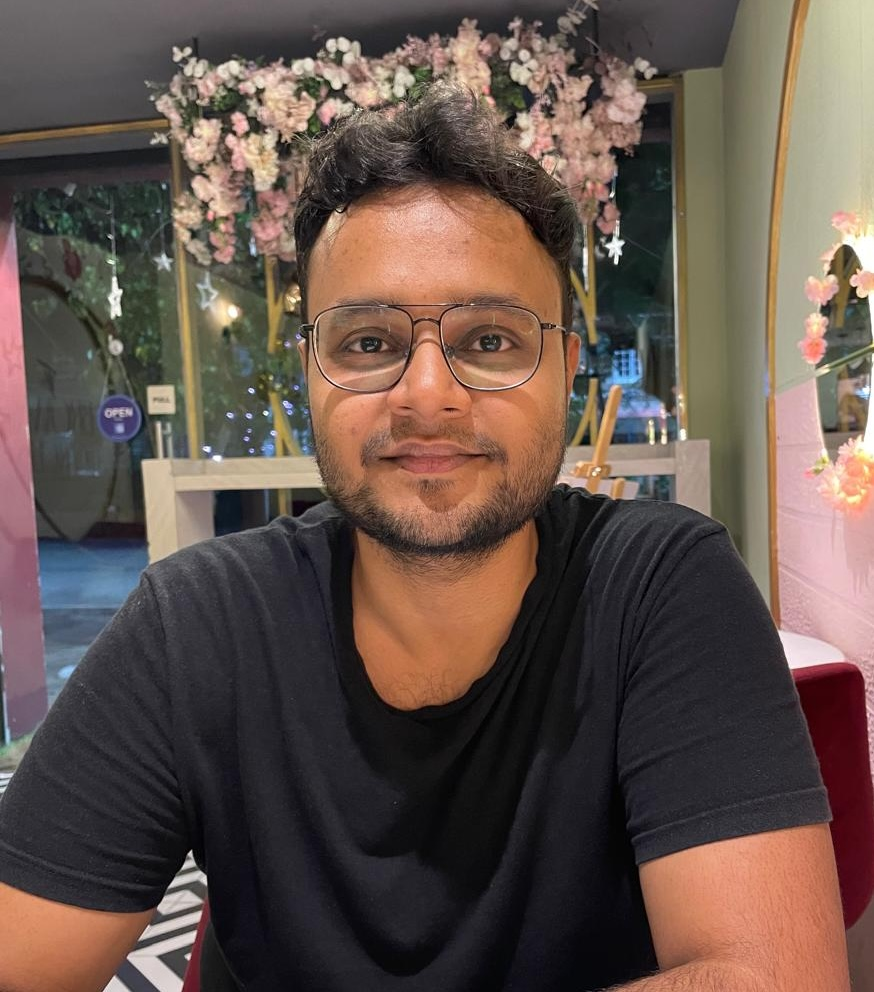
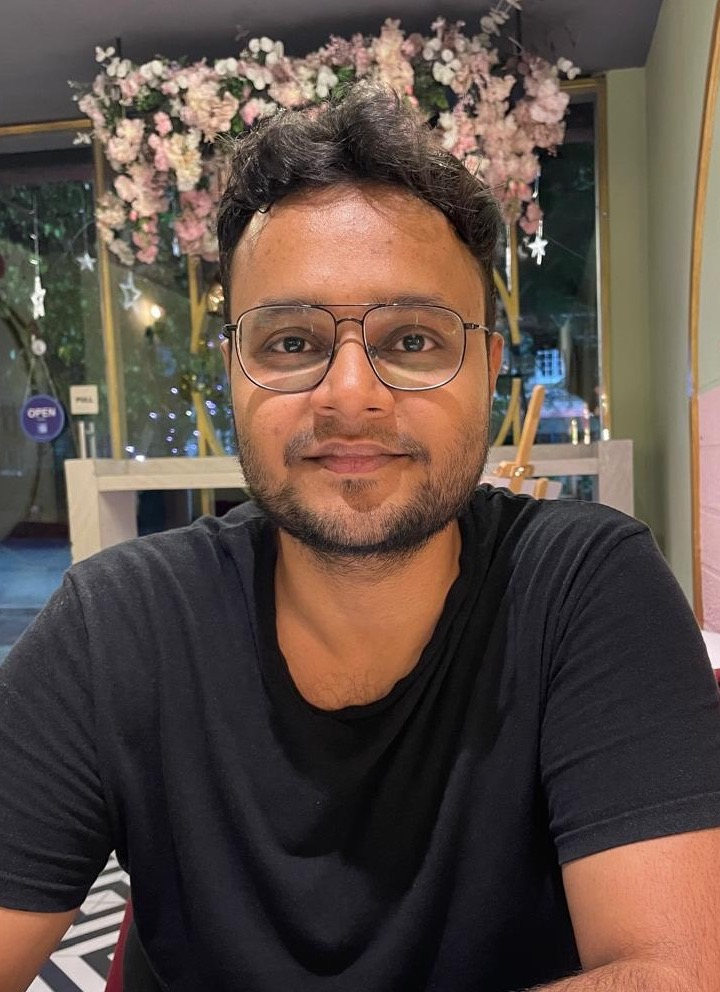
Apply teal palette, drop navbar, and crop portrait

diff --git a/assets/css/global.css b/assets/css/global.css
@@ -1,32 +1,94 @@
 @charset "utf-8";
+
+:root {
+    --accent: #0E7570;
+    --accent-hover: #0A5754;
+    --position: #0B5F5B;
+    --bg: #F4F9F8;
+    --highlight: #DFF2F0;
+    --section-line: #BFE0DD;
+    --footer-border: #0E7570;
+    --surface: #FFFFFF;
+    --text: #212529;
+    --muted: #6C757D;
+}
+
 body {
     font-family: "Lato", sans-serif;
     font-weight: 400;
-    padding-top: 5.0rem;
+    padding-top: 1.5rem;
+    background-color: var(--bg) !important;
+    color: var(--text);
 }
 
 h1, h2, h3, h4, h5, h6,
 .h1, .h2, .h3, .h4, .h5, .h6 {
     font-weight: 700;
+    color: var(--text);
+}
+
+a {
+    color: var(--accent);
+}
+
+a:hover {
+    color: var(--accent-hover);
+}
+
+.text-muted {
+    color: var(--muted) !important;
 }
 
 .text-profile-position {
-/*     font-weight: 400; */
     font-weight: 600;
+    color: var(--position);
 }
 
 .text-profile-address {
-/*     font-weight: 400; */
     font-weight: 500;
 }
 
 .text-profile-bio {
-    /* font-family: "Raleway"; */
     font-weight: 400;
 }
 
-.navbar {
-    opacity: 0.95;
+.card,
+.bg-white,
+footer.footer {
+    background-color: var(--surface) !important;
+}
+
+.border-gray,
+.border-bottom,
+.border-top,
+hr {
+    border-color: var(--section-line) !important;
+}
+
+#Publications.border-bottom,
+.card .border-bottom.border-gray,
+.my-3.bg-white .border-bottom {
+    border-color: var(--section-line) !important;
+}
+
+.eq-contrib-note {
+    font-size: 0.7rem;
+    font-weight: 400;
+    color: var(--muted);
+    background-color: var(--highlight);
+    padding: 0.15rem 0.4rem;
+    border-radius: 0.2rem;
+}
+
+footer.footer {
+    border-top: 2px solid var(--footer-border) !important;
+    box-shadow: none !important;
+}
+
+.img-thumbnail {
+    border: 1px solid var(--section-line) !important;
+    background-color: var(--surface);
+    padding: 0.2rem;
 }
 
 .inline-badge {
@@ -64,4 +126,3 @@ img.lazy {
 .email-text {
     font-family: Courier, monospace;
 }
-

diff --git a/_includes/widgets/publication_card.html b/_includes/widgets/publication_card.html
@@ -2,7 +2,7 @@
 <div class="my-3 p-0 bg-white shadow-sm rounded-sm">
     <h4 class="border-bottom border-gray p-3 mb-0 d-flex justify-content-between align-items-baseline" id="Publications">
         <span>{{ include.title }}</span>
-        <span class="text-muted font-weight-normal" style="font-size: 0.7rem;">(* equal contribution)</span>
+        <span class="eq-contrib-note">(* equal contribution)</span>
     </h4>
 
     {% for item in publications %}

diff --git a/_layouts/default.html b/_layouts/default.html
@@ -20,7 +20,6 @@
     <link rel="stylesheet" href="{{ '/assets/css/global.css' | relative_url }}">
 </head>
 <body class="bg-light" {{ page.body_attr }}>
-    {% include navbar.html %}
     <div class="container">
         {{content}}
     </div>

diff --git a/index.html b/index.html
@@ -1,7 +1,6 @@
 ---
 layout: default
 title: Homepage
-navbar_title: Home
 ---
 
 {% include widgets/profile_card.html %}
